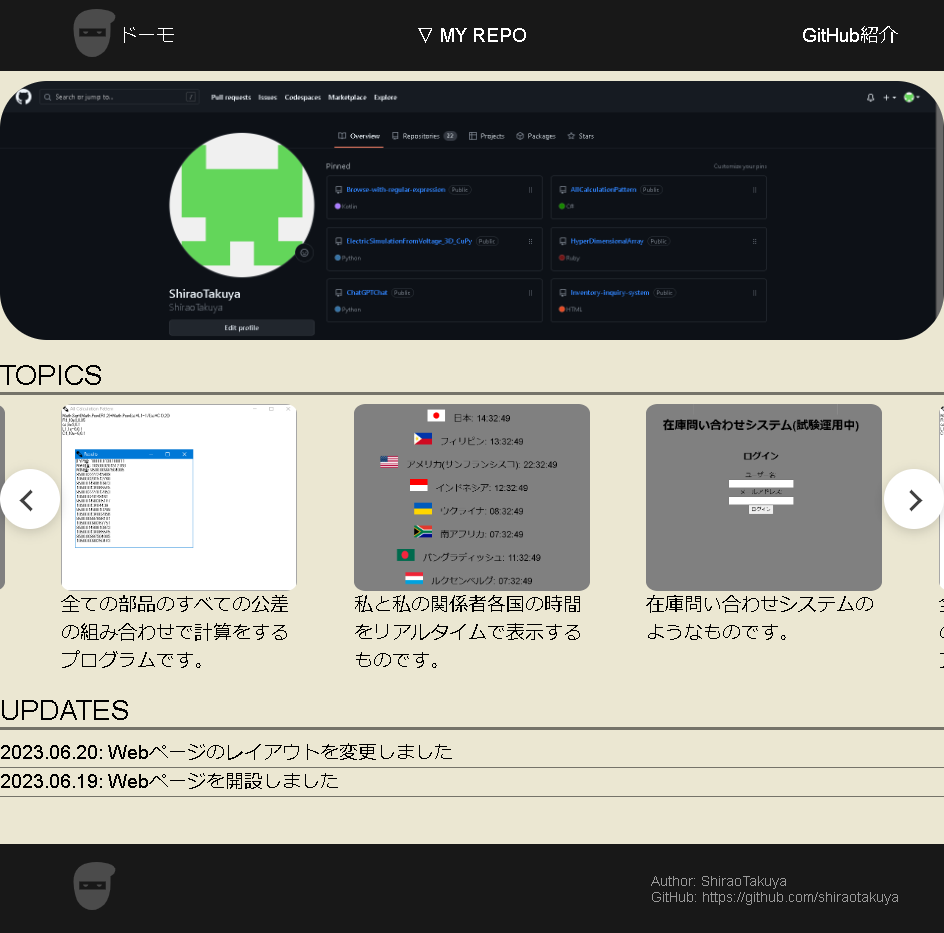
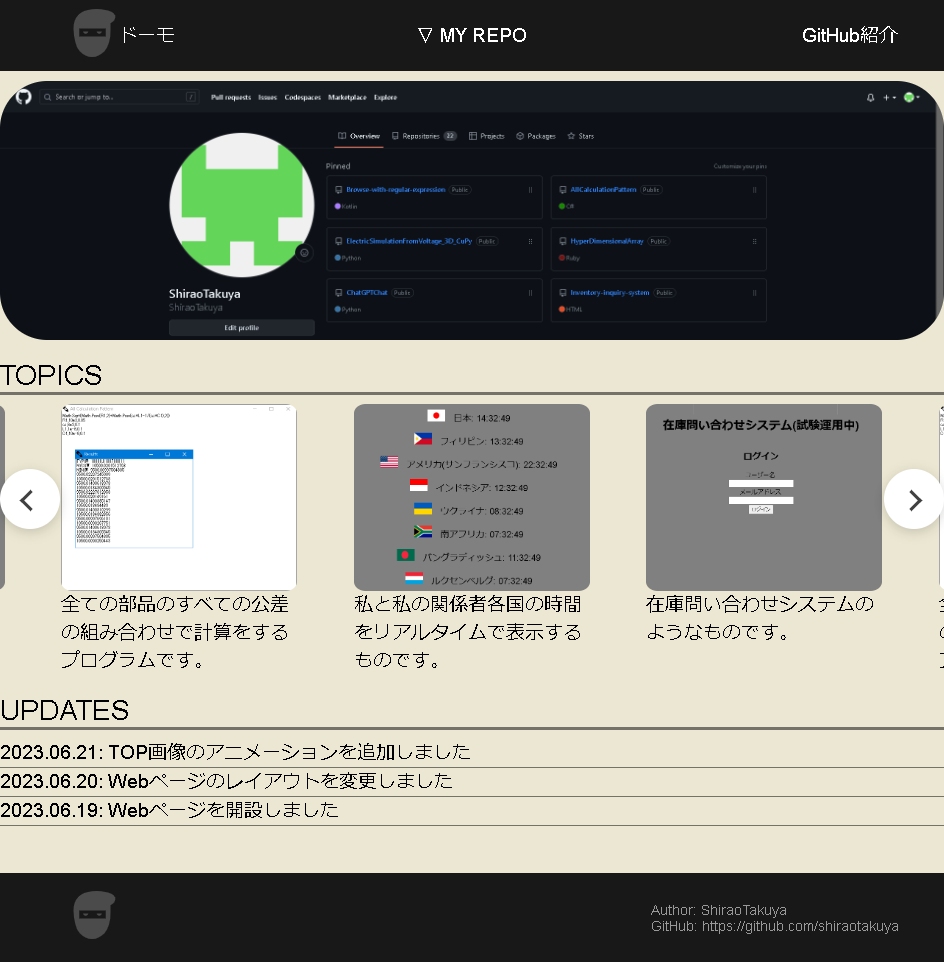
added top img animation

diff --git a/script.js b/script.js
@@ -2,7 +2,7 @@
     var dropdown1 = document.querySelector('.header-logo');
     var dropdownMenu1 = document.querySelector('.header-ninja-line');
 
-    'HEADER挨拶'
+    // HEADER挨拶
     dropdown1.addEventListener('mouseover', function(){
         dropdownMenu1.style.display = 'block';
     });
@@ -10,7 +10,7 @@
         dropdownMenu1.style.display = 'none';
     });
 
-    'リポジトリ登録'
+    // リポジトリ登録
     var dropdown2 = document.querySelector('.dropdown-repositories-container');
     var dropdownMenu2 = document.querySelector('.dropdown-repositories-items');
     var arrrep = [
@@ -64,7 +64,7 @@
     var dropdown3 = document.querySelector('.footer-logo');
     var dropdownMenu3 = document.querySelector('.footer-ninja-line');
 
-    'FOOTER挨拶'
+    // FOOTER挨拶
     dropdown3.addEventListener('mouseover', function(){
         dropdownMenu3.style.display = 'block';
     });
@@ -72,7 +72,324 @@
         dropdownMenu3.style.display = 'none';
     });
 
+    // TOP画像アニメーション
+    var topimg1 = document.querySelector('.top-img-1');
+    var artopimgposition = [
+            0,
+            0.00020202,
+            0.000606061,
+            0.001212121,
+            0.002020202,
+            0.003030303,
+            0.004242424,
+            0.005656566,
+            0.007272727,
+            0.009090909,
+            0.011111111,
+            0.013333333,
+            0.015757576,
+            0.018383838,
+            0.021212121,
+            0.024242424,
+            0.027474747,
+            0.030909091,
+            0.034545455,
+            0.038383838,
+            0.042424242,
+            0.046666667,
+            0.051111111,
+            0.055757576,
+            0.060606061,
+            0.065656566,
+            0.070909091,
+            0.076363636,
+            0.082020202,
+            0.087878788,
+            0.093939394,
+            0.10020202,
+            0.106666667,
+            0.113333333,
+            0.12020202,
+            0.127272727,
+            0.134545455,
+            0.142020202,
+            0.14969697,
+            0.157575758,
+            0.165656566,
+            0.173939394,
+            0.182424242,
+            0.191111111,
+            0.2,
+            0.209090909,
+            0.218383838,
+            0.227878788,
+            0.237575758,
+            0.247474747,
+            0.257575758,
+            0.267878788,
+            0.278383838,
+            0.289090909,
+            0.3,
+            0.311111111,
+            0.322424242,
+            0.333939394,
+            0.345656566,
+            0.357575758,
+            0.36969697,
+            0.382020202,
+            0.394545455,
+            0.407272727,
+            0.42020202,
+            0.433333333,
+            0.446666667,
+            0.46020202,
+            0.473939394,
+            0.487878788,
+            0.502020202,
+            0.516363636,
+            0.530909091,
+            0.545656566,
+            0.560606061,
+            0.575757576,
+            0.591111111,
+            0.606666667,
+            0.622424242,
+            0.638383838,
+            0.654545455,
+            0.670909091,
+            0.687474747,
+            0.704242424,
+            0.721212121,
+            0.738383838,
+            0.755757576,
+            0.773333333,
+            0.791111111,
+            0.809090909,
+            0.827272727,
+            0.845656566,
+            0.864242424,
+            0.883030303,
+            0.902020202,
+            0.921212121,
+            0.940606061,
+            0.96020202,
+            0.98,
+            1,
+            0.98989899,
+            0.98,
+            0.97030303,
+            0.960808081,
+            0.951515152,
+            0.942424242,
+            0.933535354,
+            0.924848485,
+            0.916363636,
+            0.908080808,
+            0.9,
+            0.892121212,
+            0.884444444,
+            0.876969697,
+            0.86969697,
+            0.862626263,
+            0.855757576,
+            0.849090909,
+            0.842626263,
+            0.836363636,
+            0.83030303,
+            0.824444444,
+            0.818787879,
+            0.813333333,
+            0.808080808,
+            0.803030303,
+            0.798181818,
+            0.793535354,
+            0.789090909,
+            0.784848485,
+            0.780808081,
+            0.776969697,
+            0.773333333,
+            0.76989899,
+            0.766666667,
+            0.763636364,
+            0.760808081,
+            0.758181818,
+            0.755757576,
+            0.753535354,
+            0.751515152,
+            0.74969697,
+            0.748080808,
+            0.746666667,
+            0.745454545,
+            0.744444444,
+            0.743636364,
+            0.743030303,
+            0.742626263,
+            0.742424242,
+            0.742424242,
+            0.742626263,
+            0.743030303,
+            0.743636364,
+            0.744444444,
+            0.745454545,
+            0.746666667,
+            0.748080808,
+            0.74969697,
+            0.751515152,
+            0.753535354,
+            0.755757576,
+            0.758181818,
+            0.760808081,
+            0.763636364,
+            0.766666667,
+            0.76989899,
+            0.773333333,
+            0.776969697,
+            0.780808081,
+            0.784848485,
+            0.789090909,
+            0.793535354,
+            0.798181818,
+            0.803030303,
+            0.808080808,
+            0.813333333,
+            0.818787879,
+            0.824444444,
+            0.83030303,
+            0.836363636,
+            0.842626263,
+            0.849090909,
+            0.855757576,
+            0.862626263,
+            0.86969697,
+            0.876969697,
+            0.884444444,
+            0.892121212,
+            0.9,
+            0.908080808,
+            0.916363636,
+            0.924848485,
+            0.933535354,
+            0.942424242,
+            0.951515152,
+            0.960808081,
+            0.97030303,
+            0.98,
+            0.98989899,
+            1,
+            0.994949495,
+            0.99010101,
+            0.985454545,
+            0.981010101,
+            0.976767677,
+            0.972727273,
+            0.968888889,
+            0.965252525,
+            0.961818182,
+            0.958585859,
+            0.955555556,
+            0.952727273,
+            0.95010101,
+            0.947676768,
+            0.945454545,
+            0.943434343,
+            0.941616162,
+            0.94,
+            0.938585859,
+            0.937373737,
+            0.936363636,
+            0.935555556,
+            0.934949495,
+            0.934545455,
+            0.934343434,
+            0.934343434,
+            0.934545455,
+            0.934949495,
+            0.935555556,
+            0.936363636,
+            0.937373737,
+            0.938585859,
+            0.94,
+            0.941616162,
+            0.943434343,
+            0.945454545,
+            0.947676768,
+            0.95010101,
+            0.952727273,
+            0.955555556,
+            0.958585859,
+            0.961818182,
+            0.965252525,
+            0.968888889,
+            0.972727273,
+            0.976767677,
+            0.981010101,
+            0.985454545,
+            0.99010101,
+            0.994949495,
+            1,
+            0.997474747,
+            0.995151515,
+            0.993030303,
+            0.991111111,
+            0.989393939,
+            0.987878788,
+            0.986565657,
+            0.985454545,
+            0.984545455,
+            0.983838384,
+            0.983333333,
+            0.983030303,
+            0.982929293,
+            0.983030303,
+            0.983333333,
+            0.983838384,
+            0.984545455,
+            0.985454545,
+            0.986565657,
+            0.987878788,
+            0.989393939,
+            0.991111111,
+            0.993030303,
+            0.995151515,
+            0.997474747,
+            1,
+            0.998737374,
+            0.997676768,
+            0.996818182,
+            0.996161616,
+            0.995707071,
+            0.995454545,
+            0.99540404,
+            0.995555556,
+            0.995909091,
+            0.996464646,
+            0.997222222,
+            0.998181818,
+            0.999343434,
+            0.998762626,
+            0.998383838,
+            0.998207071,
+            0.998232323,
+            0.998459596,
+            0.998888889,
+            0.999520202,
+            1,
+        ]        
+
+        var hit_edge = setInterval(frame, 10);
+        var i = 0;
+
+        function frame() {
+            if (i < artopimgposition.length) {
+                topimg1.style.top = (-2*topimg1.height + topimg1.height*2*artopimgposition[i]) + "px";
+                i++;
+            } else {
+                clearInterval(hit_edge);
+            }
+        }
 });
+
+
 
 $(function () {
     $('#js-slider-1').slick({

diff --git a/index.html b/index.html
@@ -74,6 +74,7 @@
                 UPDATES
             </div>
             <ul class="updates-item-1">
+                <li>2023.06.21: TOP画像のアニメーションを追加しました</li>
                 <li>2023.06.20: Webページのレイアウトを変更しました</li>
                 <li>2023.06.19: Webページを開設しました</li>
             </ul>

diff --git a/styles.css b/styles.css
@@ -6,9 +6,12 @@
     flex-direction: column;
     justify-content: flex-start;
     margin: 0;
+    z-index: 1;
 }
 
 header{
+    position: relative;
+    z-index: 1;
     padding-top:1vw;
     padding-bottom:1vw;
     color: white;
@@ -68,6 +71,8 @@ header{
 }
 
 .top-img-1{
+    position:relative;
+    z-index: 0;
     width: 100%;
     border-radius: 5vw 5vw 5vw 5vw;
 }
